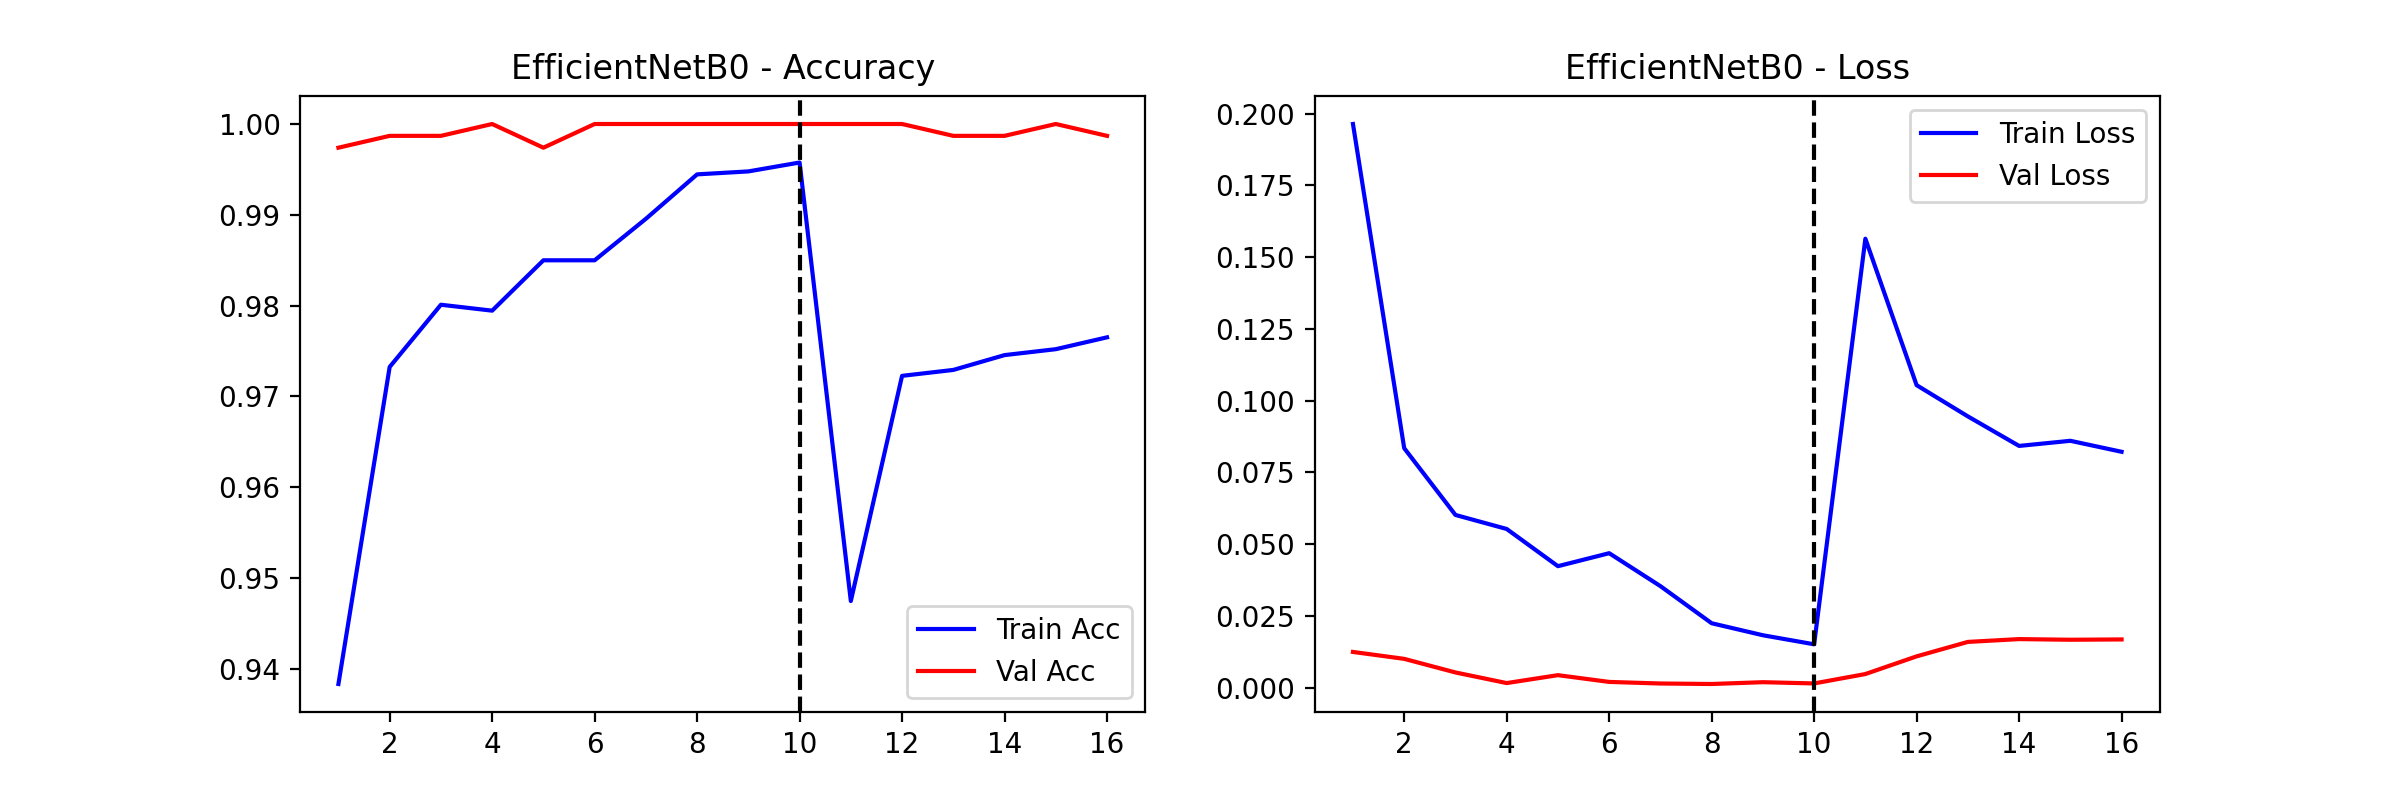
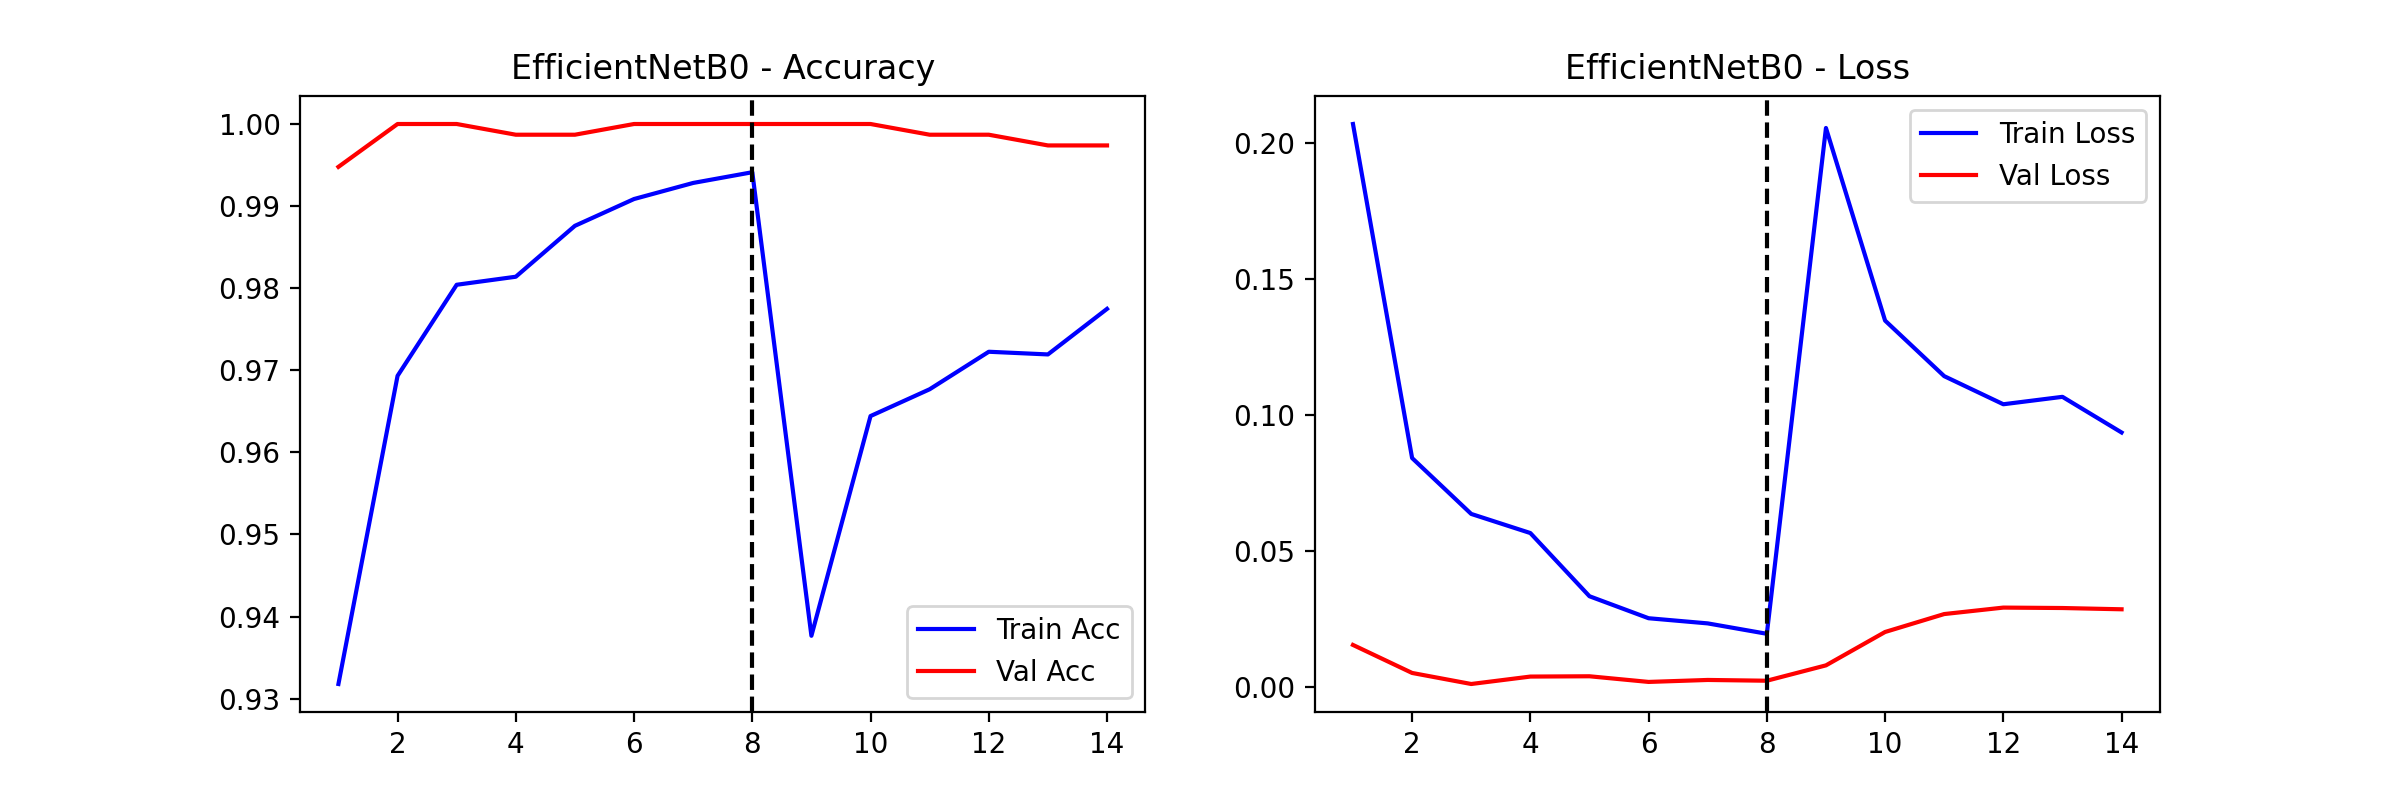
Re-trained (again) and made separate evaluation script for model comparison

diff --git a/all_model_eval.py b/all_model_eval.py
@@ -1,0 +1,127 @@
+import os
+import json
+import time
+import numpy as np
+import pandas as pd
+from pathlib import Path
+import tensorflow as tf
+from tensorflow import keras
+from tensorflow.keras import mixed_precision
+
+# 1. Setup Environment
+mixed_precision.set_global_policy("mixed_float16")
+gpus = tf.config.list_physical_devices("GPU")
+if gpus:
+    for gpu in gpus:
+        tf.config.experimental.set_memory_growth(gpu, True)
+tf.config.optimizer.set_jit(False)
+
+IMG_SIZE = (224, 224)
+BATCH_SIZE = 24
+AUTOTUNE = tf.data.AUTOTUNE
+
+# Models we want to compare (Must match the saved prefixes)
+RUNS = ["vgg16_aug", "ResNet50", "MobileNetV2", "EfficientNetB0"]
+
+# Preprocessing functions mapping
+PREPROCESS_FNS = {
+    "vgg16_aug": keras.applications.vgg16.preprocess_input,
+    "ResNet50": keras.applications.resnet50.preprocess_input,
+    "MobileNetV2": keras.applications.mobilenet_v2.preprocess_input,
+    "EfficientNetB0": keras.applications.efficientnet.preprocess_input
+}
+
+# 2. Base Test Dataset (No preprocessing yet)
+test_ds_base = keras.utils.image_dataset_from_directory(
+    "data/test", shuffle=False, image_size=IMG_SIZE, batch_size=BATCH_SIZE, color_mode="rgb"
+)
+
+comparison_results = []
+
+print("========== Generating Comparison Table from Saved Models ==========\n")
+
+for run in RUNS:
+    model_path = Path(f"models/{run}_best.keras")
+    meta_path = Path(f"results/metadata/{run}_metadata.json")
+    hist_path = Path(f"results/history/{run}_history.json")
+
+    if not (model_path.exists() and meta_path.exists() and hist_path.exists()):
+        print(f"Skipping {run}: Missing model, metadata, or history file.")
+        continue
+
+    print(f"Evaluating {run}...")
+
+    # Load Model
+    model = keras.models.load_model(model_path)
+
+    # Load Metadata
+    with open(meta_path, "r") as f:
+        meta = json.load(f)
+        train_time = meta.get("train_time_seconds", 0)
+
+    # Load History to get Best Validation metrics
+    with open(hist_path, "r") as f:
+        data = json.load(f)
+        hist = data.get("history", data)  # Safely handle dict format
+
+    val_loss = min(hist.get('val_loss', [0]))
+    val_acc = max(hist.get('val_accuracy', [0]))
+
+    # Prepare Test Dataset with specific preprocessing
+    preprocess_fn = PREPROCESS_FNS[run]
+    test_ds = test_ds_base.map(lambda x, y: (preprocess_fn(x), y), num_parallel_calls=AUTOTUNE).prefetch(AUTOTUNE)
+
+    # Measure Inference Time
+    inf_start = time.perf_counter()
+    model.predict(test_ds, verbose=0)
+    inf_time = time.perf_counter() - inf_start
+
+    # Measure Test Loss and Accuracy
+    test_loss, test_acc = model.evaluate(test_ds, verbose=0)
+
+    # Calculate Trainable Params (Temporarily unfreeze backbone locally to count correctly)
+    total_params = model.count_params()
+
+    # Find the backbone layer (usually the second layer, index 1)
+    backbone = None
+    for layer in model.layers:
+        if isinstance(layer, keras.Model):  # The Functional API backbone
+            backbone = layer
+            break
+
+    if backbone:
+        backbone.trainable = True
+        # Emulate the unfreezing logic used during fine-tuning
+        cutoff = -4 if "vgg" in run else -20
+        for l in backbone.layers[:cutoff]:
+            l.trainable = False
+
+    trainable_params = sum([keras.backend.count_params(w) for w in model.trainable_weights])
+
+    comparison_results.append({
+        "Model": run.replace("vgg16_aug", "VGG16 (Aug)"),
+        "Total Params": f"{total_params:,}",
+        "Trainable Params": f"{trainable_params:,}",
+        "Train Time (s)": round(train_time, 2),
+        "Inference Time (s)": round(inf_time, 3),
+        "Val Acc": round(val_acc, 4),
+        "Test Acc": round(test_acc, 4),
+        "Val Loss": round(val_loss, 4),
+        "Test Loss": round(test_loss, 4)
+    })
+
+# 3. Print and Save the Table
+print("\n\n========== TASK 5: FINAL COMPARISON TABLE ==========\n")
+df = pd.DataFrame(comparison_results)
+markdown_table = df.to_markdown(index=False)
+
+print(markdown_table)
+
+# Save to a Markdown file
+EVAL_DIR = Path("evaluation_results")
+EVAL_DIR.mkdir(exist_ok=True)
+with open(EVAL_DIR / "model_comparison.md", "w") as f:
+    f.write("# Model Comparison Results\n\n")
+    f.write(markdown_table)
+
+print("\nSaved comparison table to evaluation_results/model_comparison.md")

diff --git a/evaluation_results/model_comparison.md b/evaluation_results/model_comparison.md
@@ -1,0 +1,8 @@
+# Model Comparison Results
+
+| Model          |   Total Params |   Trainable Params |   Train Time (s) |   Inference Time (s) |   Val Acc |   Test Acc |   Val Loss |   Test Loss |
+|:---------------|---------------:|-------------------:|-----------------:|---------------------:|----------:|-----------:|-----------:|------------:|
+| VGG16 (Aug)    |     14,847,558 |          7,212,294 |           218.13 |               14.943 |    1      |     0.9739 |     0.0034 |      0.1089 |
+| ResNet50       |     24,113,798 |          9,457,414 |           298.51 |               18.941 |    1      |     0.9906 |     0.001  |      0.0437 |
+| MobileNetV2    |      2,587,462 |          1,535,558 |           285.22 |               34.524 |    0.9961 |     0.9875 |     0.0116 |      0.0374 |
+| EfficientNetB0 |      4,379,049 |          1,680,438 |           289.31 |               45.642 |    1      |     0.9822 |     0.0012 |      0.0499 |
